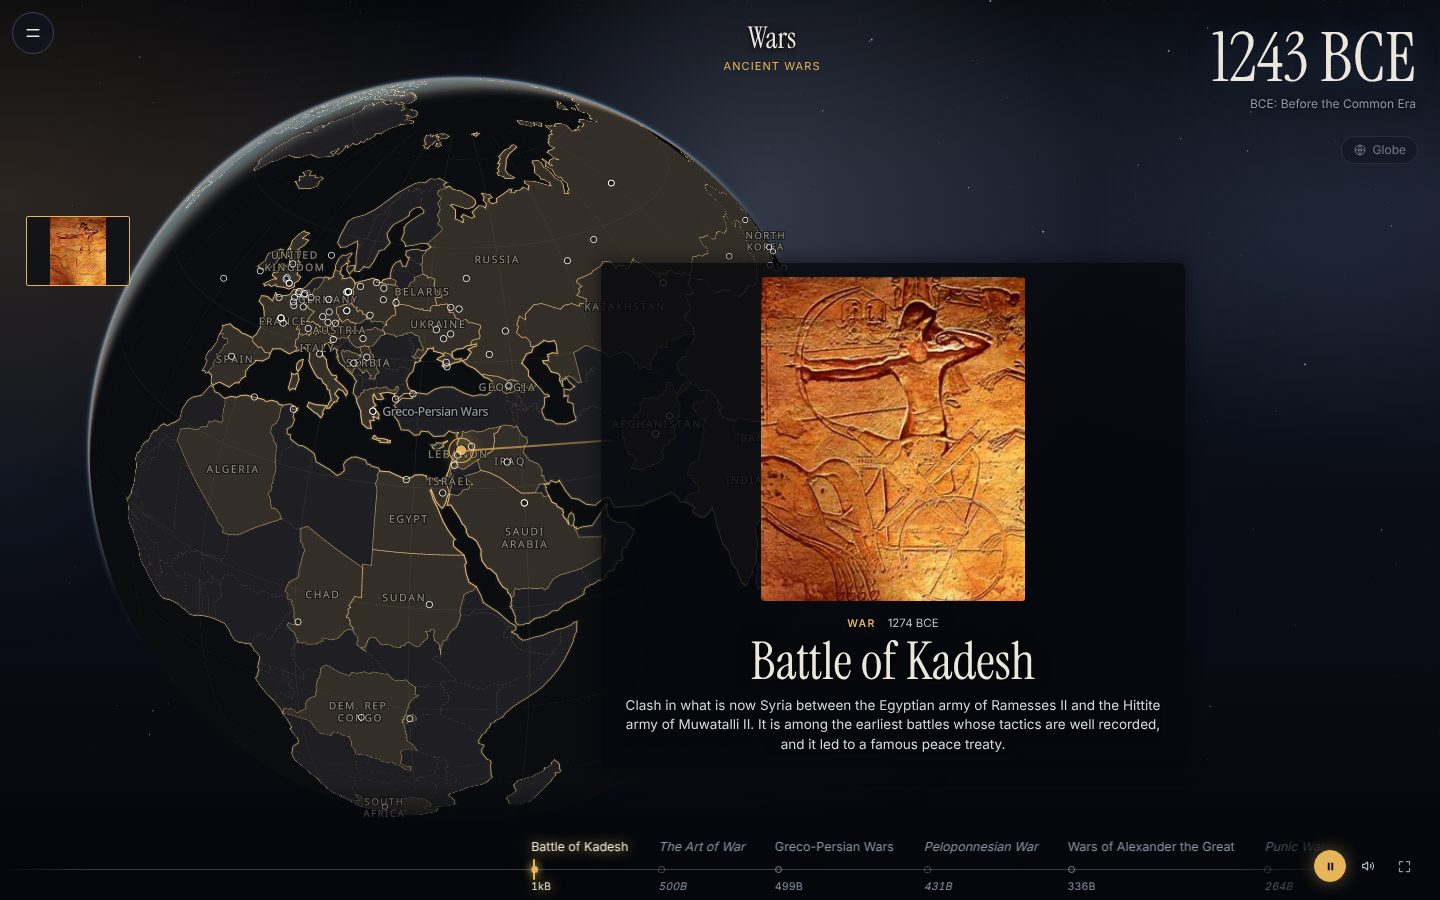
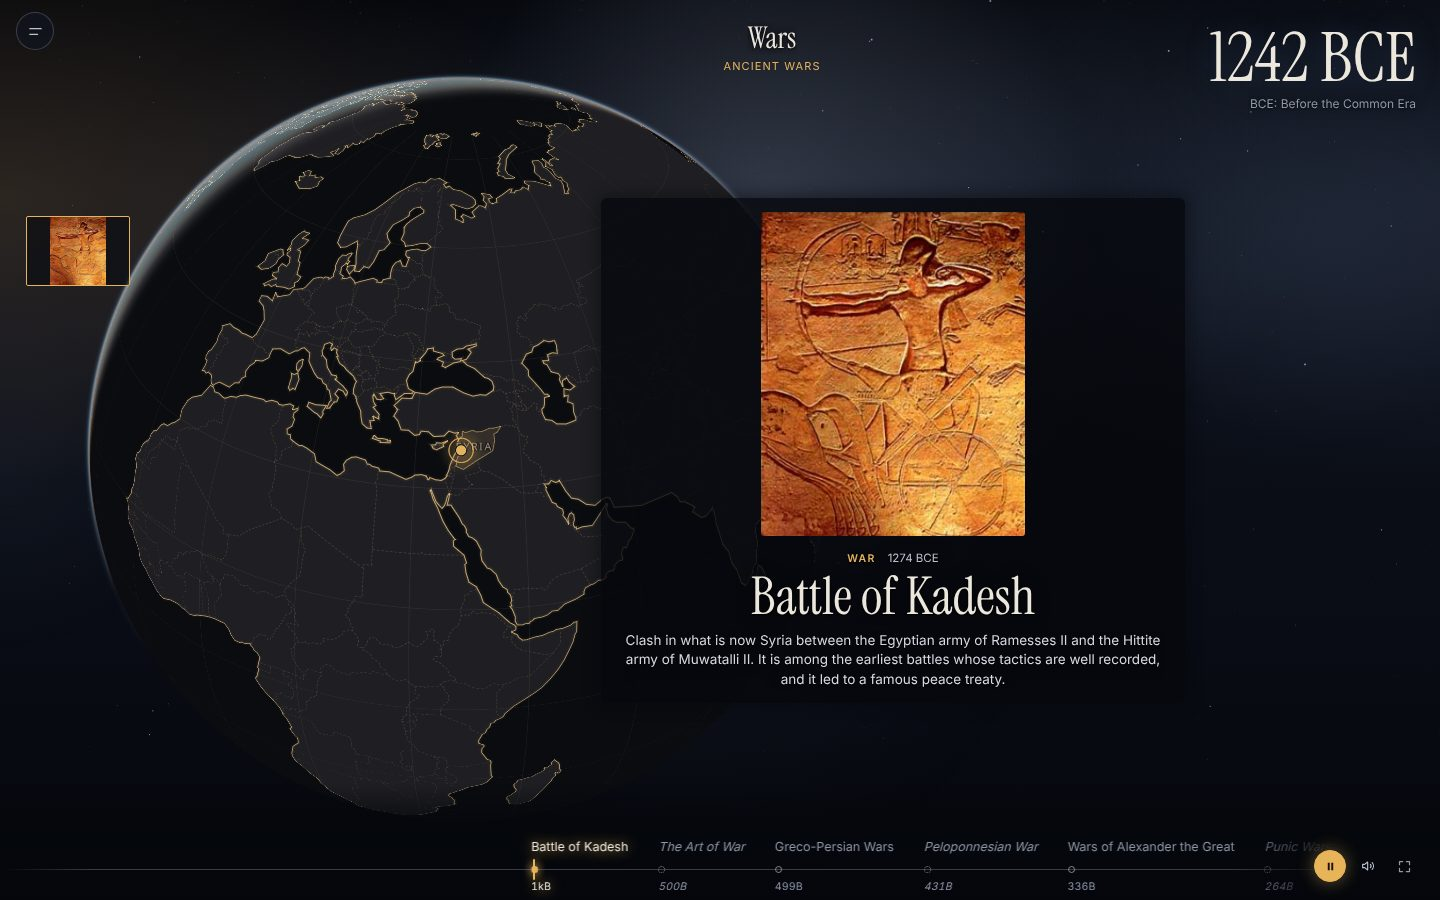
Globe: pause stays in place, card centred, view switch in the menu, no line
A pause stops dead and keeps the card and the film layout exactly where play had
them; the menu button beside the search brings the sidebar and the strip back.
The card stands in the middle of the stage. The line from the place to the card
is removed. Globe or Full view is chosen in the three-dot menu. Globe detail is
Less by default.

Claude-Session: https://claude.ai/code/session_01MCuMSgzQoDJvqKiMgpT1d3

diff --git a/site/globe.js b/site/globe.js
@@ -110,7 +110,7 @@ export function createGlobe(host, { open, goTo, seek, credit, esc, calm }) {
   // How much the map says (asked for, Nov 2026, so the globe is less crowded; `cg-detail` in this browser):
   // 'full' names every country; 'medium' names and tints only the countries the timeline's entries fall in;
   // 'less' only the country of the entry in front, and shows only its pin.
-  try { const d = localStorage.getItem('cg-detail'); S.detail = d === 'less' || d === 'full' ? d : 'medium'; } catch (e) { S.detail = 'medium'; }
+  try { const d = localStorage.getItem('cg-detail'); S.detail = d === 'medium' || d === 'full' ? d : 'less'; } catch (e) { S.detail = 'less'; }
   // The countries (Natural Earth, public domain; one small file, fetched once): which one a place falls in.
   const inRing = (r, x, y) => { let c = false; for (let i = 0, j = r.length - 1; i < r.length; j = i++) if ((r[i][1] > y) !== (r[j][1] > y) && x < ((r[j][0] - r[i][0]) * (y - r[i][1])) / (r[j][1] - r[i][1]) + r[i][0]) c = !c; return c; };
   const inPoly = (poly, x, y) => inRing(poly[0], x, y) && !poly.slice(1).some((h) => inRing(h, x, y));
@@ -303,17 +303,8 @@ export function createGlobe(host, { open, goTo, seek, credit, esc, calm }) {
     if (S.phone) { S.tx = 12; S.ty = Math.max(60, H - foot - ch - 10); put(); return; }
     const low = H - foot - ch - 30;
     S.tx = Math.round(Math.max(12, Math.min(W - cw - 12, W * midX() - cw / 2)));
-    S.ty = Math.round(Math.max(84, low)); put();
-    // A line from the place on the map to its card (asked for, Nov 2026): only on the globe, only for an entry
-    // with a place, and only while that place is on the near side.
-    if (!s.place || !S.ready || S.spv > 0.6 || !(S.vis > 0.02)) return;
-    const q = S.map.project([s.place[1], s.place[0]]), pic = card.querySelector('img');
-    const ex = S.tx - 10, ey = S.ty + (S.drop || 0) + (pic ? pic.offsetTop + pic.offsetHeight / 2 : ch / 2);
-    const dx = ex - q.x, dy = ey - q.y, len = Math.hypot(dx, dy);
-    if (!(len > 24) || dx < 0 || q.x < 0 || q.y < 0 || q.y > H) return;
-    lead.hidden = false; lead.style.setProperty('--c', s.col);
-    lead.style.width = len.toFixed(1) + 'px'; lead.style.opacity = (0.8 * S.vis * (1 - S.spv / 0.6)).toFixed(3);
-    lead.style.transform = `translate(${q.x.toFixed(1)}px, ${q.y.toFixed(1)}px) rotate(${Math.atan2(dy, dx).toFixed(4)}rad)`;
+    // The card stands in the middle of the stage, top to bottom (asked for, Nov 2026), clear of the strip.
+    S.ty = Math.round(Math.max(70, Math.min(low, (H - ch) / 2))); put();
   }
 
   // ---- the time line at the foot: it slides under a marker that stands still. The entries stand on it by name
@@ -421,12 +412,16 @@ export function createGlobe(host, { open, goTo, seek, credit, esc, calm }) {
     let vis = 0, scale = 1, drop = 0, grow = 1;
     if (S.steps[c]) {
       vis = 1;
-      if (S.playing && !still) {
+      // A pause leaves everything exactly where play had it (asked for, Nov 2026): the card keeps the size
+      // and place it had, until the reader moves on by hand.
+      const held = !S.playing && S.hold && S.hold.c === c && Math.abs(S.hold.pos - S.pos) < 0.004;
+      if ((S.playing || held) && !still) {
         const last = c >= S.steps.length - 1, a = clamp01((g + early) / TURN), z = last ? 0 : clamp01((g - (1 - early - TURN)) / TURN);
         vis = Math.min(a, 1 - z);
         if (!S.phone || S.stage === 'space') { scale = 0.82 + 0.18 * (1 - (1 - a) ** 2) + 0.45 * z * z; drop = 0.24 * z * z * host.clientHeight; }
         grow = 0.97 + 0.05 * clamp01(g + early) + 0.2 * z * z;
-      }
+        if (S.playing) S.hold = { c, pos: S.pos };
+      } else if (!held) S.hold = null;
     }
     S.vis = toward(S.vis, vis, still ? 1 : dt * 14);
     if (S.vis !== vis) busy = true;
@@ -466,7 +461,7 @@ export function createGlobe(host, { open, goTo, seek, credit, esc, calm }) {
   const ICON_GLOBE = '<svg width="14" height="14" viewBox="0 0 24 24" fill="none" stroke="currentColor" stroke-width="1.6" aria-hidden="true"><circle cx="12" cy="12" r="8.5"/><path d="M3.5 12h17M12 3.5c3 3 3 14 0 17M12 3.5c-3 3-3 14 0 17"/></svg>';
   const ICON_FULL = '<svg width="14" height="14" viewBox="0 0 24 24" fill="none" stroke="currentColor" stroke-width="1.6" stroke-linecap="round" stroke-linejoin="round" aria-hidden="true"><path d="M4 9V4h5M20 9V4h-5M4 15v5h5M20 15v5h-5"/></svg>';
   function drawMode() {
-    modeBtn.hidden = !S.placed.length;
+    modeBtn.hidden = true;      // the switch is in the three-dot menu (asked for, Nov 2026)
     modeBtn.innerHTML = (S.mode === 'full' ? ICON_FULL + '<span>Full view</span>' : ICON_GLOBE + '<span>Globe</span>');
     modeBtn.title = S.mode === 'full' ? 'Full view: show the globe' : 'Globe: switch to full view';
     modeBtn.setAttribute('aria-label', modeBtn.title);
@@ -534,6 +529,11 @@ export function createGlobe(host, { open, goTo, seek, credit, esc, calm }) {
       cams(); place(); run();
     },
     stage: () => S.stage,
+    // 'globe' (the map where entries have places) or 'full' (the stars for every entry). Kept in this browser.
+    mode(v) {
+      if ((v === 'globe' || v === 'full') && v !== S.mode) { S.mode = v; try { localStorage.setItem('cg-stage', v); } catch (e) { /* fine */ } S.now = -2; run(); }
+      return S.mode;
+    },
     // How much the map says: 'less', 'medium' or 'full'. Given one, it is kept in this browser.
     detail(v) {
       if (v === 'less' || v === 'medium' || v === 'full') { S.detail = v; try { localStorage.setItem('cg-detail', v); } catch (e) { /* fine */ } S.said = null; pins(); run(); }

diff --git a/site/app.js b/site/app.js
@@ -2308,15 +2308,16 @@ import { NEAR, GONE, FAR, FINE, calMarks, dayText, sizeAt, warp, focalYears, tra
     if (from != null || camAtEnd()) { turnsOver(); musicAgain(); }
     if (from != null) road.t = camClamp(L.place(Number(from)) - camDir() * 0.1 * L.D);
     else if (camAtEnd()) road.t = road.prev = camDir() > 0 ? camClamp(Math.min(...L.lanes.map(laneStart)) - 0.25 * L.D) : camLimits()[1];
-    play.on = true; road.pace = 1;
+    play.on = true; road.pace = 1; document.body.classList.add('film');
     soundReady();
     drawPlay();
     roadKick();
   }
   // While play travels the top bar steps aside so the road has the whole screen. It comes back when the
   // pointer nears the top edge, when anything in it has focus, and when play stops.
-  function drawPlay() { if (L) roadHud(true); tune(); document.body.classList.toggle('playing', !!play.on); if (!play.on) document.body.classList.remove('peek', 'idle', 'unfilm'); else dispatchEvent(new Event('pointermove')); }
-  function pausePlay() { play.on = false; drawPlay(); }
+  function drawPlay() { if (L) roadHud(true); tune(); document.body.classList.toggle('playing', !!play.on); if (!play.on) { document.body.classList.remove('peek', 'idle'); if (innerWidth < 700) document.body.classList.remove('film'); } else dispatchEvent(new Event('pointermove')); }
+  // On the globe a pause stops dead, exactly where play was (asked for, Nov 2026); the road eased to a stop.
+  function pausePlay() { play.on = false; if (GLOBE) road.vel = 0; drawPlay(); }
   function togglePlay() { if (play.on) pausePlay(); else startPlay(); }
   // The two plays: pressing the one that sounds pauses; pressing the other while playing changes the music.
   function playWith(own) {
@@ -2472,10 +2473,11 @@ import { NEAR, GONE, FAR, FINE, calMarks, dayText, sizeAt, warp, focalYears, tra
     addEventListener('pointermove', stir, { passive: true, capture: true });
     addEventListener('pointerdown', stir, { passive: true, capture: true });
     addEventListener('keydown', stir);
+    // The film layout stays through a pause, so nothing moves when play stops (asked for, Nov 2026). The menu
+    // button beside the search brings the bar on the left and the strip back, and takes them away again.
     $('film-menu').addEventListener('click', () => {
-      const on = document.body.classList.toggle('unfilm');
-      // On a phone the bar on the left is a drawer: open it.
-      if (on && innerWidth < 700 && !document.body.classList.contains('sb-open')) $('sb-btn').click();
+      const film = document.body.classList.toggle('film');
+      if (!film && innerWidth < 700 && !document.body.classList.contains('sb-open')) $('sb-btn').click();
     });
     const fullBtn = $('full'), root = document.documentElement;
     const fullOn = () => !!(document.fullscreenElement || document.webkitFullscreenElement);
@@ -2588,9 +2590,19 @@ import { NEAR, GONE, FAR, FINE, calMarks, dayText, sizeAt, warp, focalYears, tra
     paceShow();
     $('pace').addEventListener('input', () => { play.speed = clamp(Number($('pace').value) || 1, 0.25, 2); store.set('cg-pace', String(play.speed)); paceShow(); });
     $('pace-row').addEventListener('click', (e) => e.stopPropagation());
+    // Globe, or Full view: the stars for every entry (cg-stage in this browser, kept by the globe).
+    const modeShow = (v) => { for (const b of $('mode').children) b.setAttribute('aria-pressed', String(b.dataset.v === v)); };
+    modeShow(store.get('cg-stage') === 'full' ? 'full' : 'globe');
+    $('mode-row').addEventListener('click', (e) => {
+      e.stopPropagation();
+      const b = e.target.closest('button[data-v]');
+      if (!b) return;
+      if (globe) globe.mode(b.dataset.v); else store.set('cg-stage', b.dataset.v);
+      modeShow(b.dataset.v);
+    });
     // How much the map says (Less, Medium, Full; cg-detail in this browser, kept by the globe).
     const detailShow = (v) => { for (const b of $('detail').children) b.setAttribute('aria-pressed', String(b.dataset.v === v)); };
-    { const d = store.get('cg-detail'); detailShow(d === 'less' || d === 'full' ? d : 'medium'); }
+    { const d = store.get('cg-detail'); detailShow(d === 'medium' || d === 'full' ? d : 'less'); }
     $('detail-row').addEventListener('click', (e) => {
       e.stopPropagation();
       const b = e.target.closest('button[data-v]');

diff --git a/site/styles.css b/site/styles.css
@@ -745,19 +745,22 @@ body.globe.playing #wall .w-scene { opacity: 0; }
 body.playing.idle #globe .g-mode { opacity: 0; pointer-events: none; }
 /* Play is watched like a film (asked for, Nov 2026): the bar on the left and the strip at the foot step
    away, and the buttons fade while the pointer rests. */
-body.playing:not(.unfilm), body.playing.sb-open:not(.unfilm) { --sb: 0px; }
-body.playing:not(.unfilm) #sb, body.playing:not(.unfilm) #sb-scrim { display: none; }
-body.playing:not(.unfilm) #dock, body.playing.peek:not(.unfilm) #dock { transform: translateY(100%); opacity: 0; pointer-events: none; }
-body.playing:not(.unfilm) #stage, body.playing.peek:not(.unfilm) #stage { bottom: 0; }
-body.globe.playing:not(.unfilm) #axisbar { bottom: 18px; }
+body.film, body.film.sb-open { --sb: 0px; }
+body.film #sb, body.film #sb-scrim { display: none; }
+body.film #dock, body.film.peek #dock { transform: translateY(100%); opacity: 0; pointer-events: none; }
+body.film #stage, body.film.peek #stage { bottom: 0; }
+body.globe.film #axisbar { bottom: 18px; }
 #axisbar { transition: opacity .3s; }
 body.playing.idle #axisbar { opacity: 0; }
 body.playing.idle #stage { cursor: none; }
-/* With the buttons comes a menu button at the top left: it brings the bar on the left and the strip back
-   (and takes them away again), so the reader can leave the film without stopping it. */
-#film-menu { position: fixed; left: 12px; top: 12px; z-index: 46; display: none; width: 42px; height: 42px; align-items: center; justify-content: center; padding: 0; color: var(--text); background: var(--glass); border: 1px solid var(--glass-edge); border-radius: 50%; -webkit-backdrop-filter: blur(10px); backdrop-filter: blur(10px); cursor: pointer; transition: opacity .3s; }
-body.playing #film-menu { display: inline-flex; left: calc(var(--sb) + 12px); }
+/* The film layout stays through a pause. A menu button stands at the top left, the same height and glass as
+   the search beside it: it brings the bar on the left and the strip back, and takes them away again. */
+#film-menu { position: fixed; left: calc(var(--sb) + 16px); top: 12px; z-index: 46; display: none; width: 38px; height: 38px; align-items: center; justify-content: center; padding: 0; color: var(--muted); background: var(--glass); border: 1px solid var(--glass-edge); border-radius: 19px; -webkit-backdrop-filter: blur(12px); backdrop-filter: blur(12px); cursor: pointer; transition: opacity .3s, color .15s; }
+#film-menu:hover { color: var(--text); }
+body.film #film-menu, body.playing #film-menu { display: inline-flex; }
 body.playing.idle #film-menu { opacity: 0; pointer-events: none; }
+@media (min-width: 700px) { body.film .tsearch, body.playing .tsearch { left: calc(var(--sb) + 62px); } }
+@media (max-width: 699px) { #film-menu { left: 10px; top: 7px; } body:not(.playing) #film-menu { display: none; } }
 #full[aria-pressed="true"] { color: var(--text); }
 #full[hidden] { display: none; }
 @media (max-width: 699px) { #globe .g-past { display: none; } #globe .g-bimg { left: 50%; top: 36%; max-width: 96%; max-height: 50%; box-shadow: none; } #globe .g-card.bare { background: rgba(7, 10, 16, .72); } #globe .g-mode { right: 10px; top: 84px; } }

diff --git a/site/index.html b/site/index.html
@@ -125,7 +125,7 @@
   </button>
 </header>
 
-<button id="film-menu" type="button" aria-label="Show or hide the sidebar"><svg width="20" height="20" viewBox="0 0 24 24" fill="none" stroke="currentColor" stroke-width="1.8" stroke-linecap="round" aria-hidden="true"><path d="M5 8h14M5 16h14"/></svg></button>
+<button id="film-menu" type="button" aria-label="Show or hide the sidebar"><svg width="17" height="17" viewBox="0 0 24 24" fill="none" stroke="currentColor" stroke-width="1.8" stroke-linecap="round" aria-hidden="true"><path d="M4 8h16M4 16h11"/></svg></button>
 <main id="stage">
   <!-- The timeline in depth: the ground on a canvas, the year and the views at the top left, the names standing on the road -->
   <div id="road" aria-label="Timeline">
@@ -187,6 +187,11 @@
     <svg width="16" height="16" viewBox="0 0 24 24" fill="none" stroke="currentColor" stroke-width="1.7" stroke-linecap="round" stroke-linejoin="round" aria-hidden="true"><path d="M4.5 17a8.5 8.5 0 1 1 15 0M12 13l4-5"/><circle cx="12" cy="13.5" r="1.2"/></svg>
     <span class="lbl">Play speed</span><input id="pace" type="range" min="0.25" max="2" step="0.25" value="1" aria-label="Play speed"><small id="pace-now" class="state">1x</small>
   </label>
+  <div id="mode-row" class="nv pace">
+    <svg width="16" height="16" viewBox="0 0 24 24" fill="none" stroke="currentColor" stroke-width="1.6" stroke-linecap="round" stroke-linejoin="round" aria-hidden="true"><rect x="3.5" y="5" width="17" height="14" rx="2"/><path d="M3.5 15l4.5-4 4 3.5 3-2.5 5.5 4.5"/></svg>
+    <span class="lbl">View</span>
+    <span id="mode" class="seg" role="group" aria-label="View"><button type="button" data-v="globe">Globe</button><button type="button" data-v="full">Full view</button></span>
+  </div>
   <div id="detail-row" class="nv pace">
     <svg width="16" height="16" viewBox="0 0 24 24" fill="none" stroke="currentColor" stroke-width="1.6" stroke-linecap="round" aria-hidden="true"><circle cx="12" cy="12" r="8.5"/><path d="M3.5 12h17M12 3.5c3 3 3 14 0 17M12 3.5c-3 3-3 14 0 17"/></svg>
     <span class="lbl">Globe detail</span>

diff --git a/AGENTS.md b/AGENTS.md
@@ -398,7 +398,14 @@ How the page is put together:
   runs from the place on the map to the card (`.g-lead`, drawn in `place()`). On a phone the period stands in
   the top corner. With the buttons of play comes a menu button at the top left (`#film-menu`): it brings the
   bar on the left and the strip back while play goes on (`body.unfilm`), and takes them away again.
-- **Globe detail** (three-dot menu: Less, Medium, Full; `cg-detail` in this browser, Medium by default; asked
+- **Round 3 of the same asks (Nov 2026), which replace what the points above say where they differ.** There is
+  no line from the place to the card (tried, not wanted). The card stands in the middle of the stage top to
+  bottom. Globe or Full view is chosen in the three-dot menu ("View", `globe.mode()`), not by a pill on the
+  stage. A pause stops dead and leaves everything where play had it: the card keeps its size and place
+  (`S.hold`), and the film layout stays (`body.film`, set when play starts) until the menu button at the top
+  left, which is the search's height and glass and stands just before it, brings the bar and the strip back.
+  Globe detail is Less by default.
+- **Globe detail** (three-dot menu: Less, Medium, Full; `cg-detail` in this browser; asked
   for, Nov 2026, so the globe is less crowded). Full names every country, as the map's tiles do. Medium names
   and tints only the countries the timeline's entries fall in. Less names and tints only the country of the
   entry in front and shows only its pin. The countries are Natural Earth's (`site/media/countries.json`, public
